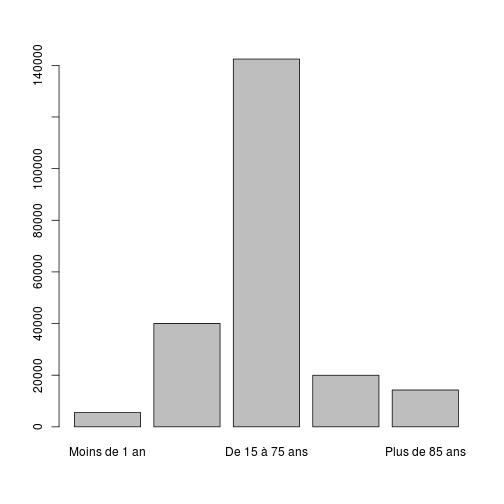
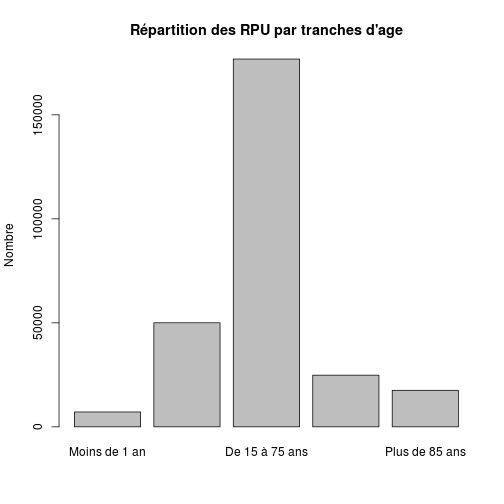
m2

diff --git a/Chapitres/Tranches age/tranche_age.html b/Chapitres/Tranches age/tranche_age.html
@@ -183,14 +183,75 @@ hljs.initHighlightingOnLoad();
 <pre><code class="r">date()
 </code></pre>
 
-<pre><code>## [1] &quot;Sun Oct  6 15:31:48 2013&quot;
+<pre><code>## [1] &quot;Wed Nov 13 11:03:53 2013&quot;
 </code></pre>
 
 <h2>Variables globales:</h2>
 
-<pre><code class="r">mois_courant &lt;- 8
-annee_couranre &lt;- 2013
-path &lt;- &quot;../../&quot;
+<pre><code class="r">source(&quot;../prologue.R&quot;)
+</code></pre>
+
+<pre><code>## gdata: read.xls support for &#39;XLS&#39; (Excel 97-2004) files ENABLED.
+## 
+## gdata: read.xls support for &#39;XLSX&#39; (Excel 2007+) files ENABLED.
+## 
+## Attaching package: &#39;gdata&#39;
+## 
+## L&#39;objet suivant est masqué from &#39;package:stats&#39;:
+## 
+##     nobs
+## 
+## L&#39;objet suivant est masqué from &#39;package:utils&#39;:
+## 
+##     object.size
+## 
+## Loading required package: questionr
+## Loading required namespace: car
+## 
+## Attaching package: &#39;rgrs&#39;
+## 
+## Les objets suivants sont masqués from &#39;package:questionr&#39;:
+## 
+##     copie, copie.default, copie.proptab, cprop, cramer.v,
+##     format.proptab, freq, lprop, print.proptab, prop, quant.cut,
+##     renomme.variable, residus, wtd.mean, wtd.table, wtd.var
+## 
+## Rattle : une interface graphique gratuite pour l&#39;exploration de données avec R.
+## Version 2.6.26 r77 Copyright (c) 2006-2013 Togaware Pty Ltd.
+## Entrez &#39;rattle()&#39; pour secouer, faire vibrer, et faire défiler vos données.
+## Loading required package: foreign
+## Loading required package: survival
+## Loading required package: splines
+## Loading required package: MASS
+## Loading required package: nnet
+## 
+## Attaching package: &#39;zoo&#39;
+## 
+## Les objets suivants sont masqués from &#39;package:base&#39;:
+## 
+##     as.Date, as.Date.numeric
+## 
+## Please visit openintro.org for free statistics materials
+## 
+## Attaching package: &#39;openintro&#39;
+## 
+## L&#39;objet suivant est masqué from &#39;package:MASS&#39;:
+## 
+##     mammals
+## 
+## L&#39;objet suivant est masqué from &#39;package:datasets&#39;:
+## 
+##     cars
+</code></pre>
+
+<pre><code>## [1] &quot;Fichier courant: rpu2013d0110.Rda&quot;
+</code></pre>
+
+<pre><code class="r">d1 &lt;- foo(path)
+nrow(d1)
+</code></pre>
+
+<pre><code>## [1] 276452
 </code></pre>
 
 <h2>Activité régionale</h2>
@@ -206,18 +267,6 @@ source(paste(path, &quot;mes_fonctions.R&quot;, sep = &quot;&quot;))
 <pre><code class="r">load_libraries()
 </code></pre>
 
-<h2>Lecture du fichier des données</h2>
-
-<p>On lit le fichier de travail créé:</p>
-
-<pre><code class="r">
-if (!exists(&quot;d1&quot;)) {
-    load(paste(path, &quot;rpu2013d0108.Rda&quot;, sep = &quot;&quot;))
-    d1 &lt;- d0108
-    rm(d0108)
-}
-</code></pre>
-
 <p>Le découpage en tranches d&#39;age est le même que celui utilisé pour la population générale (voir demographie2.Rmd)</p>
 
 <pre><code class="r">age &lt;- cut(d1$AGE, breaks = c(-1, 0.99, 14, 74, 84, 110), labels = c(&quot;Moins de 1 an&quot;, 
@@ -227,13 +276,13 @@ a
 </code></pre>
 
 <pre><code>##  Moins de 1 an  De 1 à 15 ans De 15 à 75 ans de 75 à 85 ans Plus de 85 ans 
-##           5554          40062         142453          19996          14269
+##           7151          50031         176834          24836          17576
 </code></pre>
 
-<pre><code class="r">barplot(a)
+<pre><code class="r">barplot(a, main = &quot;Répartition des RPU par tranches d&#39;age&quot;, ylab = &quot;Nombre&quot;)
 </code></pre>
 
[2 lines of base64/hex data omitted]
 
 </body>
 

diff --git a/Chapitres/Tranches age/tranche_age.md b/Chapitres/Tranches age/tranche_age.md
@@ -6,16 +6,81 @@ date()
 ```
 
 ```
-## [1] "Sun Oct  6 15:31:48 2013"
+## [1] "Wed Nov 13 11:03:53 2013"
 ```
 
 Variables globales:
 -------------------
 
 ```r
-mois_courant <- 8
-annee_couranre <- 2013
-path <- "../../"
+source("../prologue.R")
+```
+
+```
+## gdata: read.xls support for 'XLS' (Excel 97-2004) files ENABLED.
+## 
+## gdata: read.xls support for 'XLSX' (Excel 2007+) files ENABLED.
+## 
+## Attaching package: 'gdata'
+## 
+## L'objet suivant est masqué from 'package:stats':
+## 
+##     nobs
+## 
+## L'objet suivant est masqué from 'package:utils':
+## 
+##     object.size
+## 
+## Loading required package: questionr
+## Loading required namespace: car
+## 
+## Attaching package: 'rgrs'
+## 
+## Les objets suivants sont masqués from 'package:questionr':
+## 
+##     copie, copie.default, copie.proptab, cprop, cramer.v,
+##     format.proptab, freq, lprop, print.proptab, prop, quant.cut,
+##     renomme.variable, residus, wtd.mean, wtd.table, wtd.var
+## 
+## Rattle : une interface graphique gratuite pour l'exploration de données avec R.
+## Version 2.6.26 r77 Copyright (c) 2006-2013 Togaware Pty Ltd.
+## Entrez 'rattle()' pour secouer, faire vibrer, et faire défiler vos données.
+## Loading required package: foreign
+## Loading required package: survival
+## Loading required package: splines
+## Loading required package: MASS
+## Loading required package: nnet
+## 
+## Attaching package: 'zoo'
+## 
+## Les objets suivants sont masqués from 'package:base':
+## 
+##     as.Date, as.Date.numeric
+## 
+## Please visit openintro.org for free statistics materials
+## 
+## Attaching package: 'openintro'
+## 
+## L'objet suivant est masqué from 'package:MASS':
+## 
+##     mammals
+## 
+## L'objet suivant est masqué from 'package:datasets':
+## 
+##     cars
+```
+
+```
+## [1] "Fichier courant: rpu2013d0110.Rda"
+```
+
+```r
+d1 <- foo(path)
+nrow(d1)
+```
+
+```
+## [1] 276452
 ```
 
 Activité régionale
@@ -36,19 +101,6 @@ load_libraries()
 ```
 
 
-Lecture du fichier des données
----------------------------------------
-On lit le fichier de travail créé:
-
-```r
-
-if (!exists("d1")) {
-    load(paste(path, "rpu2013d0108.Rda", sep = ""))
-    d1 <- d0108
-    rm(d0108)
-}
-```
-
 Le découpage en tranches d'age est le même que celui utilisé pour la population générale (voir demographie2.Rmd)
 
 
@@ -61,11 +113,11 @@ a
 
 ```
 ##  Moins de 1 an  De 1 à 15 ans De 15 à 75 ans de 75 à 85 ans Plus de 85 ans 
-##           5554          40062         142453          19996          14269
+##           7151          50031         176834          24836          17576
 ```
 
 ```r
-barplot(a)
+barplot(a, main = "Répartition des RPU par tranches d'age", ylab = "Nombre")
 ```
 
 ![plot of chunk tranches](figure/tranches.png) 
